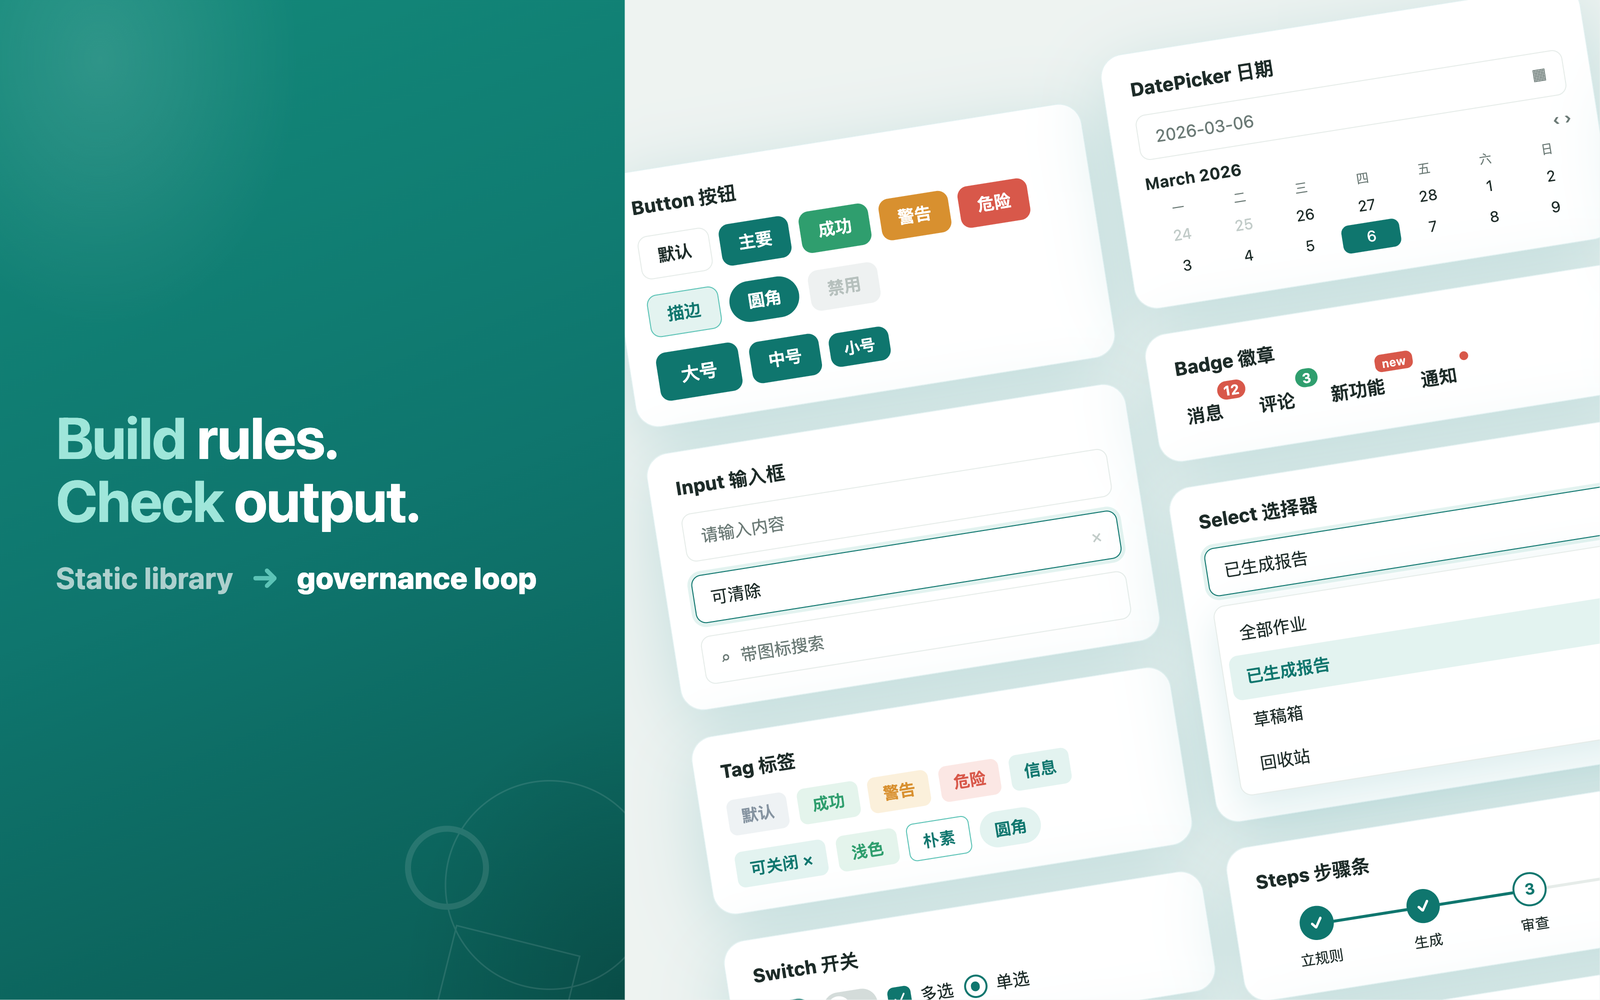
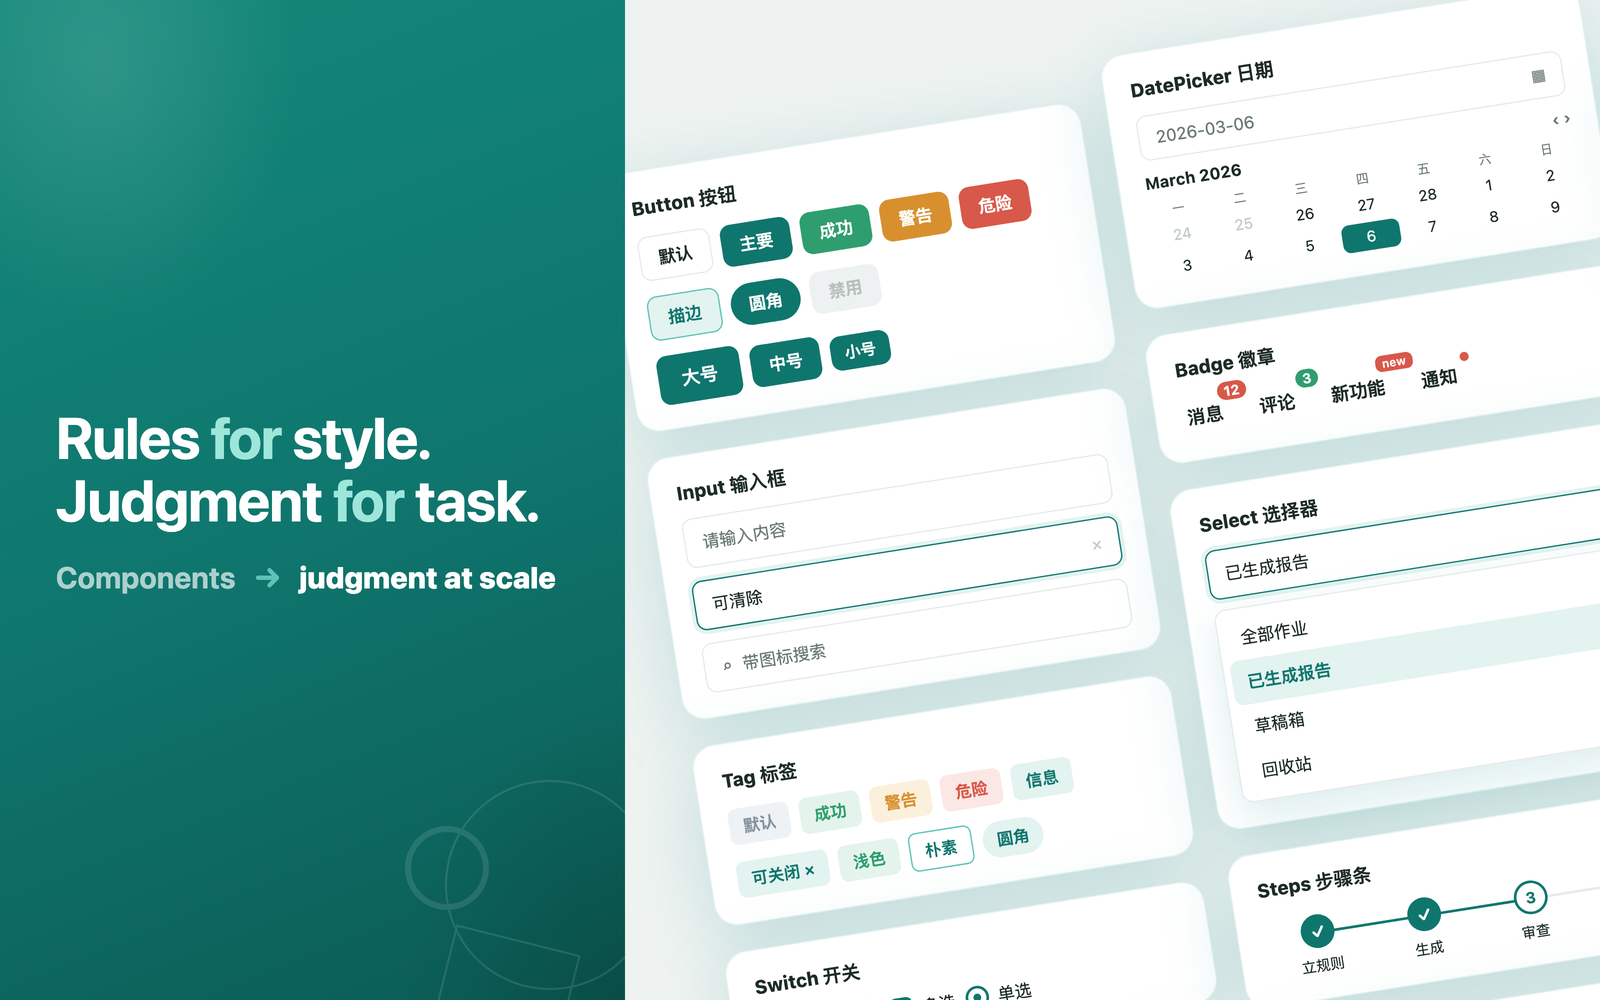
UI-craft rebalance: promote FitTogether to main #2, UX/UI-led focus pills, clean Homework dashboard, refreshed DS cover

diff --git a/index.html b/index.html
@@ -483,9 +483,9 @@
       <div class="hero-foot">
         <div class="focus-label"><span class="en">Focus</span><span class="zh">专注领域</span></div>
         <div class="meta" aria-label="Focus areas">
-          <span class="pill"><span class="en">AI Product Design</span><span class="zh">AI 产品设计</span></span>
-          <span class="pill"><span class="en">Design Engineering</span><span class="zh">设计工程</span></span>
-          <span class="pill"><span class="en">Complex Systems</span><span class="zh">复杂系统</span></span>
+          <span class="pill"><span class="en">UX &amp; UI Design</span><span class="zh">UX 与 UI 设计</span></span>
+          <span class="pill"><span class="en">AI-augmented</span><span class="zh">AI 增强</span></span>
+          <span class="pill"><span class="en">Cross-platform</span><span class="zh">跨端体验</span></span>
         </div>
       </div>
     </header>
@@ -505,10 +505,22 @@
           </div>
         </div>
       </a>
+      <a class="row-case" href="cases/fittogether/fittogether_case-v2.html">
+        <div class="row-media vis-cover" style="--shot:url(&quot;cover-assets/FIT-cover.png&quot;);--shot-zh:url(&quot;cover-assets/FIT-cover-cn.png&quot;);--pos:calc(50% + 20px) center;"></div>
+        <div class="row-body">
+          <div class="row-meta"><span class="row-no">02</span></div>
+          <h3><span class="en">FitTogether</span><span class="zh">健身社交概念</span></h3>
+          <p class="row-desc"><span class="en">An end-to-end concept for a fitness app built around one problem — staying with the habit. Self-initiated, from research and flows to high-fidelity mobile UI.</span><span class="zh">一个端到端的健身 app 概念，只围绕一个问题——如何坚持。自驱项目，从研究、流程一直做到高保真移动端 UI。</span></p>
+          <div class="row-tags">
+            <span><span class="en">Concept UX</span><span class="zh">概念 UX</span></span>
+            <span><span class="en">Mobile UI craft</span><span class="zh">移动端 UI</span></span>
+          </div>
+        </div>
+      </a>
       <a class="row-case ai" href="cc/product-compare-case.html">
         <div class="row-media ai-cover" style="--shot:url(&quot;cover-assets/PC-cover.png&quot;);--shot-zh:url(&quot;cover-assets/PC-cover-cn.png&quot;);--pos:center;"></div>
         <div class="row-body">
-          <div class="row-meta"><span class="row-no">02</span></div>
+          <div class="row-meta"><span class="row-no">03</span></div>
           <h3><span class="en">Evidence-Led AI Competitive Analysis</span><span class="zh">证据驱动的 AI 竞品分析</span></h3>
           <p class="row-desc"><span class="en">Can you trust AI-run competitive research? I designed the flow so AI drafts the findings and people gate the evidence — 17 of 20 held up and reached the report.</span><span class="zh">AI 生成的竞品分析，结论能否采信？我设计的流程由 AI 起草发现、再由人工核验证据——20 条发现中有 17 条通过验证并进入终稿。</span></p>
           <div class="row-tags">
@@ -520,7 +532,7 @@
       <a class="row-case ai" href="cc/homework-report-case-editorial-preview.html">
         <div class="row-media ai-cover" style="--shot:url(&quot;cover-assets/HW-browsers-cover.png&quot;);--shot-zh:url(&quot;cover-assets/HW-browsers-cover-cn.png&quot;);--pos:center;"></div>
         <div class="row-body">
-          <div class="row-meta"><span class="row-no">03</span></div>
+          <div class="row-meta"><span class="row-no">04</span></div>
           <h3><span class="en">Homework Report Framework</span><span class="zh">作业报告框架</span></h3>
           <p class="row-desc"><span class="en">Eight report types, each designed in isolation, meant duplicated work and inconsistent reading. I unified them into one framework, so a new type reuses the structure instead of starting from scratch.</span><span class="zh">8 种报告类型此前各自独立设计，导致重复开发、阅读体验不一致。我将其整合为统一框架，新增报告类型可复用既有结构，无需从零开始。</span></p>
           <div class="row-tags">
@@ -532,7 +544,7 @@
       <a class="row-case ai" href="cc/design-system-case-condensed.html">
         <div class="row-media ai-cover" style="--shot:url(&quot;cover-assets/DS-cover.png&quot;);--shot-zh:url(&quot;cover-assets/DS-cover-cn.png&quot;);--pos:center;"></div>
         <div class="row-body">
-          <div class="row-meta"><span class="row-no">04</span></div>
+          <div class="row-meta"><span class="row-no">05</span></div>
           <h3><span class="en">Design System Governance</span><span class="zh">设计系统治理</span></h3>
           <p class="row-desc"><span class="en">How do you keep 52 components consistent when AI and many hands touch the same platform? I built a governance workflow — token-lint plus AI rules — so quality holds without a human gatekeeper on every page.</span><span class="zh">当 AI 与多人协作持续改动同一平台，52 个组件如何保持一致？我设计了一套治理流程——token-lint 校验结合 AI 规则——让质量不再依赖人工逐页把关。</span></p>
           <div class="row-tags">
@@ -549,18 +561,6 @@
       </div>
     </div>
     <div class="rows rows-explore">
-      <a class="row-case" href="cases/fittogether/fittogether_case-v2.html">
-        <div class="row-media vis-cover" style="--shot:url(&quot;cover-assets/FIT-cover.png&quot;);--shot-zh:url(&quot;cover-assets/FIT-cover-cn.png&quot;);--pos:center;"></div>
-        <div class="row-body">
-          <div class="row-meta"><span class="row-no">05</span></div>
-          <h3><span class="en">FitTogether</span><span class="zh">健身社交概念</span></h3>
-          <p class="row-desc"><span class="en">A fitness app concept built around staying with the habit.</span><span class="zh">围绕「如何坚持」的健身 app 概念设计。</span></p>
-          <div class="row-tags">
-            <span><span class="en">Concept UX</span><span class="zh">概念 UX</span></span>
-            <span><span class="en">Mobile UI craft</span><span class="zh">移动端 UI</span></span>
-          </div>
-        </div>
-      </a>
       <a class="row-case" href="cases/bugbox/bugbox_case.html">
         <div class="row-media vis-cover" style="--shot:url(&quot;cover-assets/BUG-49.png&quot;);--shot-zh:url(&quot;cover-assets/BUG-49-cn.png&quot;);--pos:center;"></div>
         <div class="row-body">

diff --git a/cc/homework-report-case-editorial-preview.html b/cc/homework-report-case-editorial-preview.html
@@ -650,7 +650,7 @@
       <div class="framework-editorial">
         <div class="framework-hero">
           <figure>
-            <img src="homework-assets/framework-3-blurred.jpg" alt="Selected report framework">
+            <img src="homework-assets/hw-report-dashboard-16x9.png" alt="Selected report framework">
             <figcaption>
               <span class="en">Selected framework: a shared report path with room for report-specific modules.</span>
               <span class="zh">最终框架：共用报告路径，同时保留不同报告的模块差异。</span>